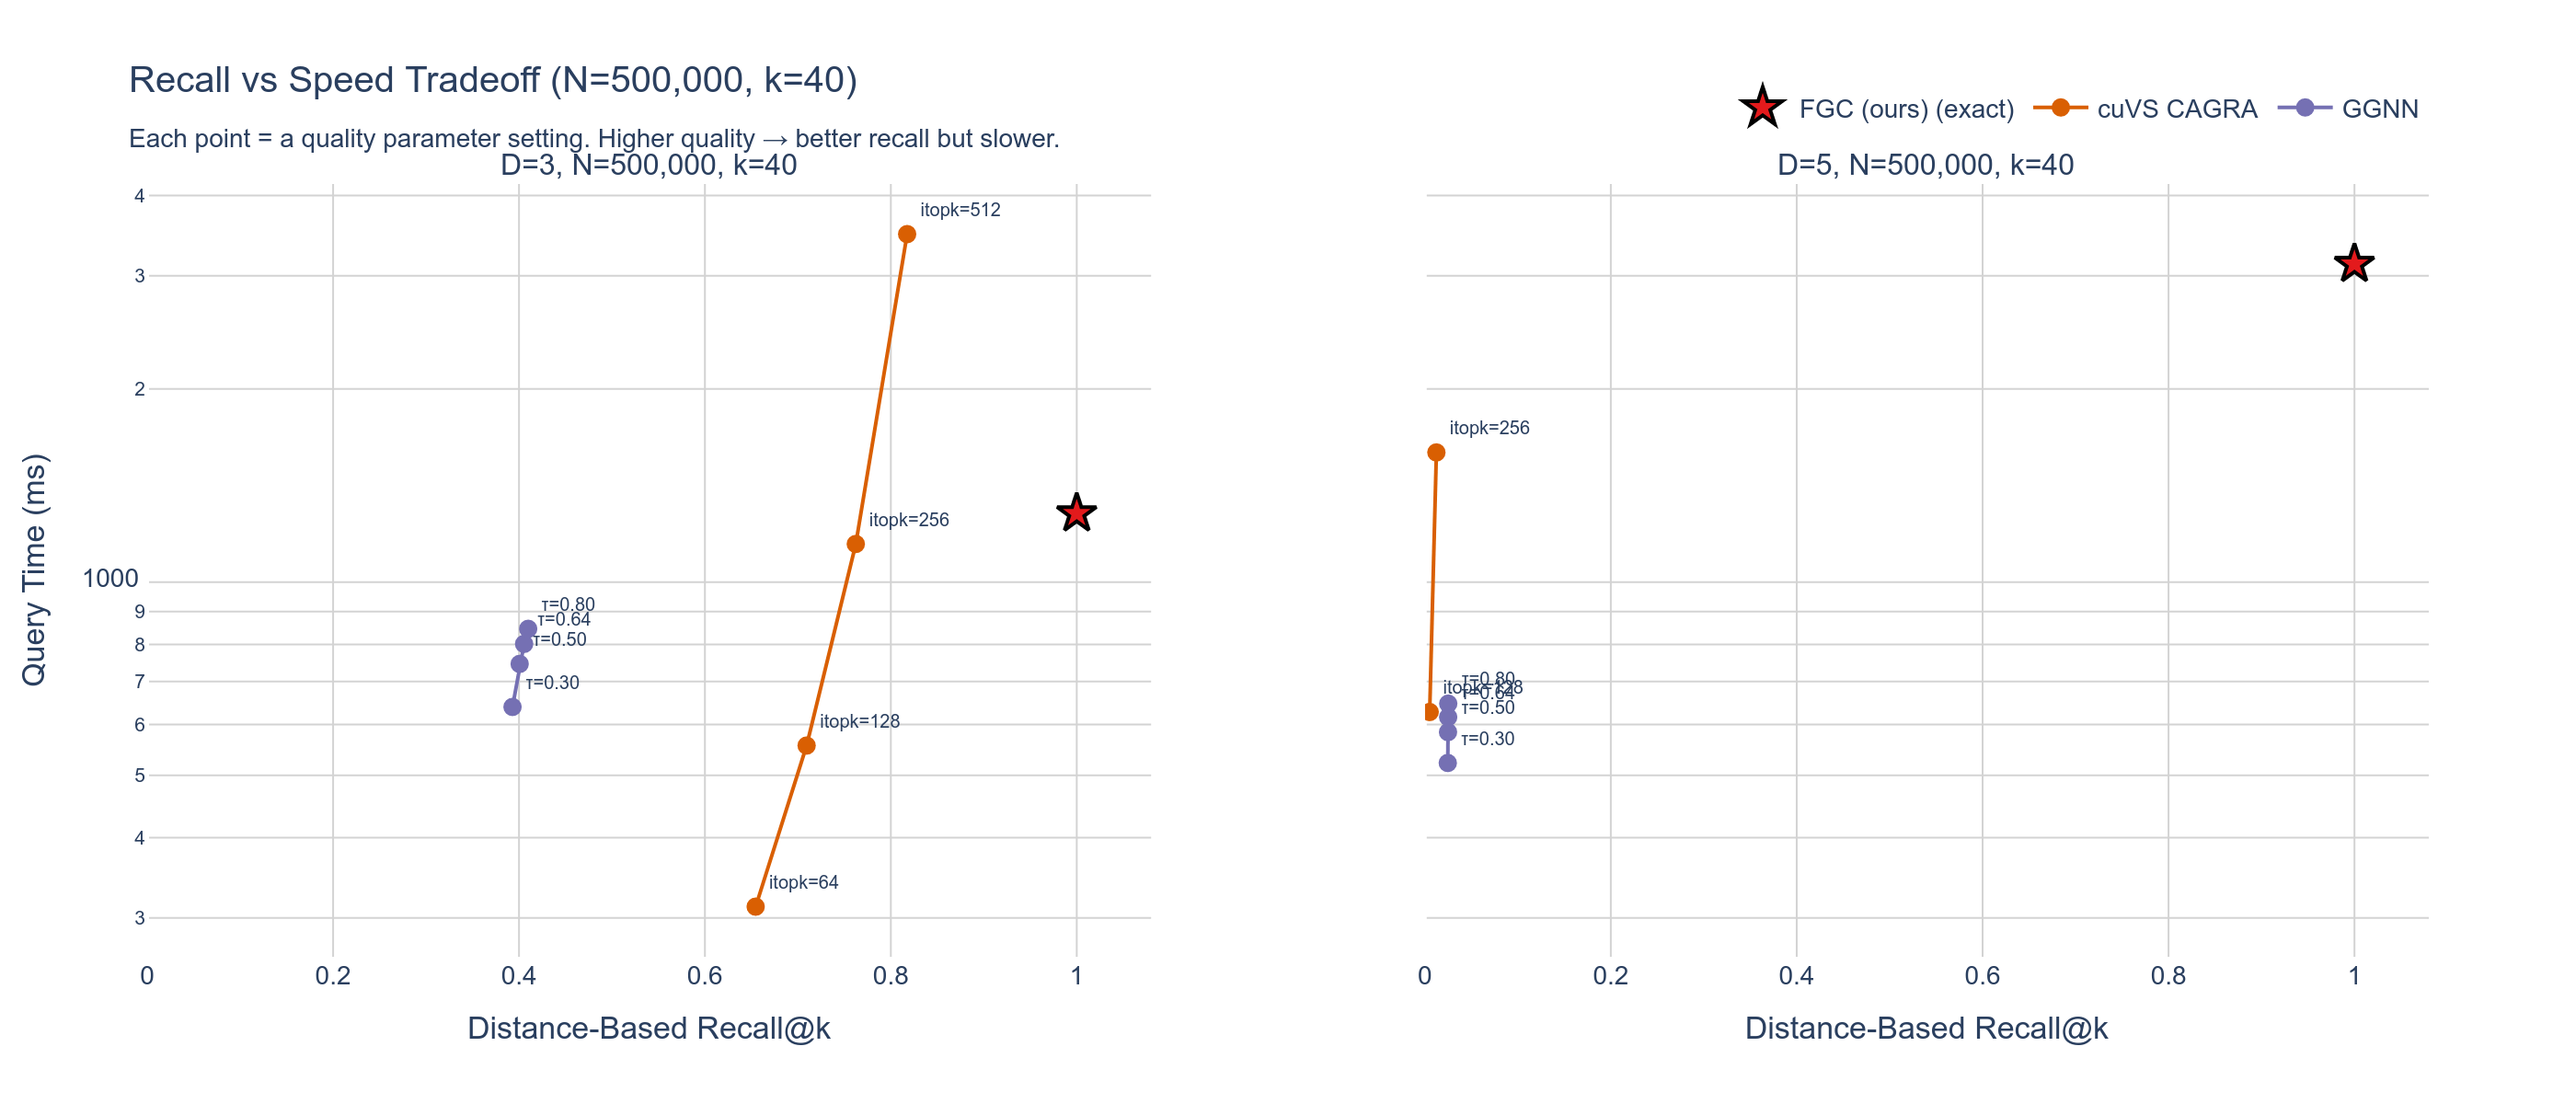
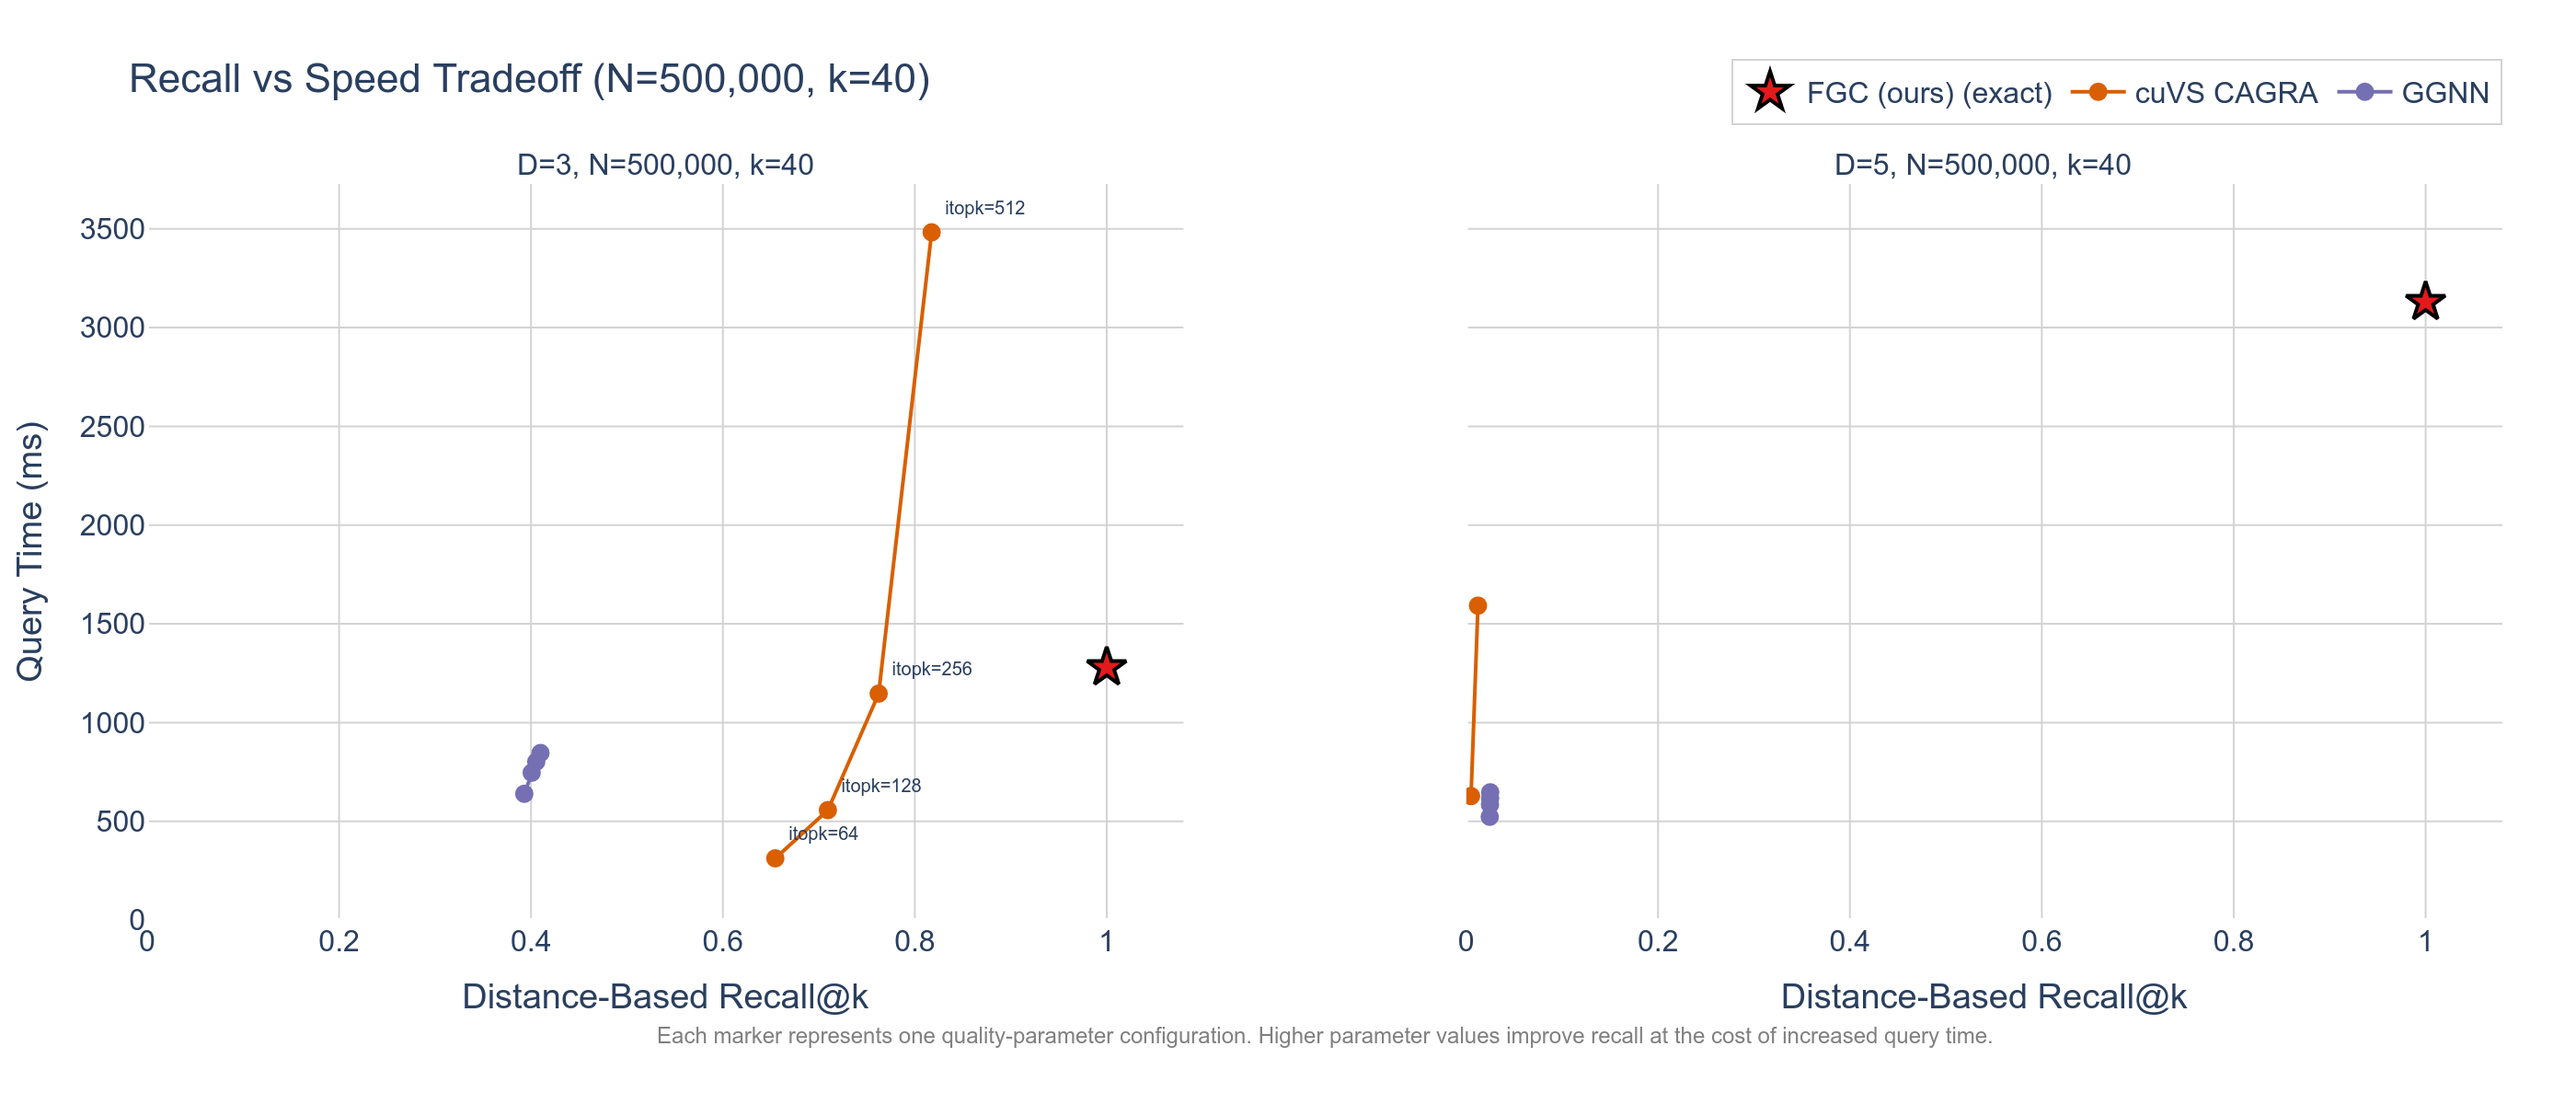
polish all plots: fix OOM marker colors, linear Y axis on Pareto, professional titles
- recall_vs_dimension: OOM markers now use per-algorithm color (cuVS orange) instead of red; label shown once at first OOM dim to avoid overlap; subtitle notes cross markers = OOM
- recall_speed_pareto: switch Y axis from log to linear for equal gridline spacing; move subtitle out of title into bottom annotation with formal language; suppress overlapping parameter labels when recall range < 0.05
- recall_controlled_speed: retitle from misleading "Speed at >=99% Recall" to "Query Speed Comparison"; subtitle clarifies none reach 99% recall
- plot_side_by_side_with_zoom: fix "Detail View (y <= X ms)" -> "Detail View (speedup <= X×)" (Y axis is speedup factor, not ms)
- all reviewer plots: bump base font 14->16, add explicit margins, consistent legend styling with bgcolor/border

diff --git a/process_gpu_csvs.py b/process_gpu_csvs.py
@@ -315,13 +315,13 @@ def plot_side_by_side_with_zoom(data: pd.DataFrame, analysis_type: str, **kwargs
         max_dimensions = kwargs.get("max_dimensions", 15)
 
         subtitle_left = f"Full Scale (d ≤ {max_dimensions})"
-        subtitle_right = f"Detail View (y ≤ {y_axis_cap} ms)"
+        subtitle_right = f"Detail View (speedup ≤ {y_axis_cap}×)"
         main_title = f"GPU-only FGC Dimensional Scaling Analysis ({size//1_000_000}M Vectors, K={k})"
     else:
         dimension = kwargs.get("dimension", 3)
         k = kwargs.get("k", 40)
         subtitle_left = "Full Scale"
-        subtitle_right = f"Detail View (y ≤ {y_axis_cap} ms)"
+        subtitle_right = f"Detail View (speedup ≤ {y_axis_cap}×)"
         main_title = f"GPU-only FGC Speedup Analysis: D={dimension}, K={k}, Varying Sizes"
 
     fig = make_subplots(
@@ -640,14 +640,16 @@ def plot_recall_exactness(
     fig.add_hline(y=1.0, line_dash="dash", line_color="gray",
                   annotation_text="Exact", annotation_position="top right")
     fig.update_layout(
-        title=f"FGC Achieves Exact Recall vs Approximate Methods (D={dim}, N={points:,}, k={k})",
+        title=f"FGC Achieves Exact Recall vs Approximate Methods<br>"
+              f"<sub>D={dim}, N={points:,}, k={k}. Approximate methods shown at their best quality setting.</sub>",
         xaxis_title="Algorithm",
         yaxis_title=f"Distance-Based Recall@{k}",
-        yaxis=dict(range=[0, 1.12], gridcolor="lightgray", gridwidth=1),
+        yaxis=dict(range=[0, 1.15], gridcolor="lightgray", gridwidth=1),
         showlegend=False,
-        font=dict(family="Arial", size=14),
+        font=dict(family="Arial", size=16),
         plot_bgcolor="white",
         paper_bgcolor="white",
+        margin=dict(t=100, b=70, l=80, r=40),
     )
     return fig
 
@@ -719,15 +721,18 @@ def plot_recall_controlled_speed(
             ), row=1, col=col_idx)
 
     fig.update_layout(
-        title=f"Speed at ≥{int(target_recall*100)}% Recall (N={points:,}, k={k})<br>"
-              f"<sub>Approximate methods use their best config meeting the recall target (or best available)</sub>",
+        title=f"Query Speed Comparison (N={points:,}, k={k})<br>"
+              f"<sub>Approximate methods shown at their highest achievable recall (annotated). "
+              f"None reach {int(target_recall*100)}% recall at these settings.</sub>",
         yaxis_title="Time (ms)",
         yaxis=dict(gridcolor="lightgray"),
         barmode="group",
-        font=dict(family="Arial", size=14),
+        font=dict(family="Arial", size=16),
         plot_bgcolor="white",
         paper_bgcolor="white",
-        legend=dict(orientation="h", yanchor="bottom", y=1.06, xanchor="right", x=1),
+        legend=dict(orientation="h", yanchor="bottom", y=1.08, xanchor="right", x=1,
+                    bgcolor="rgba(255,255,255,0.85)", bordercolor="lightgray", borderwidth=1),
+        margin=dict(t=110, b=70, l=80, r=40),
     )
     return fig
 
@@ -819,15 +824,17 @@ def plot_memory_footprint(
 
     fig.update_layout(
         title=f"Peak GPU Memory Usage (D={dim}, k={k})<br>"
-              f"<sub>Measured via pynvml device-level memory delta (cross-allocator)</sub>",
+              f"<sub>Measured via device-level memory delta (cross-allocator, includes all GPU frameworks)</sub>",
         xaxis_title="Dataset Size",
         yaxis_title="Peak GPU Memory (MB)",
         yaxis=dict(gridcolor="lightgray"),
         barmode="group",
-        font=dict(family="Arial", size=14),
+        font=dict(family="Arial", size=16),
         plot_bgcolor="white",
         paper_bgcolor="white",
-        legend=dict(orientation="h", yanchor="bottom", y=1.06, xanchor="right", x=1),
+        legend=dict(orientation="h", yanchor="bottom", y=1.08, xanchor="right", x=1,
+                    bgcolor="rgba(255,255,255,0.85)", bordercolor="lightgray", borderwidth=1),
+        margin=dict(t=110, b=70, l=80, r=40),
     )
     return fig
 
@@ -886,9 +893,15 @@ def plot_recall_speed_pareto(
                     mean_recall=("recall", "mean"),
                     mean_time=("time_ms", "mean"),
                 ).reset_index().sort_values("mean_recall")
-                labels = [f"{param_label}={p:.0f}" if backend == "cuvs"
-                          else f"{param_label}={p:.2f}"
-                          for p in grouped[param_col]]
+                raw_labels = [f"{param_label}={p:.0f}" if backend == "cuvs"
+                              else f"{param_label}={p:.2f}"
+                              for p in grouped[param_col]]
+                # Suppress labels when recall range is too compressed to avoid overlap
+                recall_range = grouped["mean_recall"].max() - grouped["mean_recall"].min()
+                if recall_range < 0.05:
+                    labels = [""] * len(raw_labels)
+                else:
+                    labels = raw_labels
                 fig.add_trace(go.Scatter(
                     x=grouped["mean_recall"],
                     y=grouped["mean_time"],
@@ -905,16 +918,26 @@ def plot_recall_speed_pareto(
 
     fig.update_xaxes(title_text="Distance-Based Recall@k", range=[0, 1.08],
                      gridcolor="lightgray", gridwidth=1)
-    fig.update_yaxes(title_text="Query Time (ms)", type="log",
+    fig.update_yaxes(title_text="Query Time (ms)", rangemode="tozero",
                      gridcolor="lightgray", gridwidth=1, row=1, col=1)
-    fig.update_yaxes(type="log", gridcolor="lightgray", gridwidth=1, row=1, col=2)
+    fig.update_yaxes(rangemode="tozero", gridcolor="lightgray", gridwidth=1, row=1, col=2)
     fig.update_layout(
-        title=f"Recall vs Speed Tradeoff (N={points:,}, k={k})<br>"
-              f"<sub>Each point = a quality parameter setting. Higher quality → better recall but slower.</sub>",
-        font=dict(family="Arial", size=14),
+        title=f"Recall vs Speed Tradeoff (N={points:,}, k={k})",
+        font=dict(family="Arial", size=16),
         plot_bgcolor="white",
         paper_bgcolor="white",
-        legend=dict(orientation="h", yanchor="bottom", y=1.06, xanchor="right", x=1),
+        legend=dict(orientation="h", yanchor="bottom", y=1.08, xanchor="right", x=1,
+                    bgcolor="rgba(255,255,255,0.85)", bordercolor="lightgray", borderwidth=1),
+        margin=dict(t=100, b=100, l=80, r=40),
+    )
+    fig.add_annotation(
+        text="Each marker represents one quality-parameter configuration. "
+             "Higher parameter values improve recall at the cost of increased query time.",
+        xref="paper", yref="paper",
+        x=0.5, y=-0.18,
+        showarrow=False,
+        font=dict(size=12, color="gray", family="Arial"),
+        align="center",
     )
     return fig
 
@@ -964,39 +987,45 @@ def plot_recall_vs_dimension(
             name=meta["name"],
         ))
 
-        # Check for OOM/error dims — show as red '×'
+        # Check for OOM/error dims — show as per-algorithm '×'
         ok_dims = set(grouped["dim"].astype(int).tolist())
-        # Load ALL data including errors to find which dims failed
         dist_path = os.path.join(RECALL_DATA_DIR, f"recall_dist_{backend}.csv")
         if os.path.exists(dist_path):
             df_all = pd.read_csv(dist_path)
             err_sub = df_all[(df_all["points"] == points) & (df_all["k"] == k) & (df_all["status"] == "error")]
             err_dims = set(err_sub["dim"].astype(int).tolist()) - ok_dims
             if err_dims:
+                sorted_err = sorted(err_dims)
+                # Only label the first marker to avoid overlap; color identifies the algorithm
+                labels = ["OOM"] + [""] * (len(sorted_err) - 1)
                 fig.add_trace(go.Scatter(
-                    x=sorted(err_dims),
-                    y=[0.02] * len(err_dims),
+                    x=sorted_err,
+                    y=[0.02] * len(sorted_err),
                     mode="markers+text",
-                    marker=dict(color="red", size=12, symbol="x"),
-                    text=["OOM"] * len(err_dims),
+                    marker=dict(color=meta["color"], size=13, symbol="x",
+                                line=dict(width=2, color=meta["color"])),
+                    text=labels,
                     textposition="top center",
-                    textfont=dict(size=9, color="red"),
+                    textfont=dict(size=11, color=meta["color"]),
                     name=f"{meta['name']} (OOM)",
-                    showlegend=False,
+                    showlegend=True,
                 ))
 
     fig.add_hline(y=1.0, line_dash="dash", line_color="gray", opacity=0.5)
     fig.update_layout(
         title=f"Recall vs Dimension at Best Quality Setting (N={points:,}, k={k})<br>"
-              f"<sub>FGC is exact across all dimensions; approximate methods degrade at higher d</sub>",
+              f"<sub>FGC is exact across all dimensions; approximate methods degrade at higher d. "
+              f"Cross markers indicate out-of-memory failure.</sub>",
         xaxis_title="Dimensions",
         xaxis=dict(dtick=1, range=[1.5, 10.5], gridcolor="lightgray"),
         yaxis_title="Distance-Based Recall@k",
-        yaxis=dict(range=[-0.02, 1.08], gridcolor="lightgray"),
-        font=dict(family="Arial", size=14),
+        yaxis=dict(range=[-0.05, 1.12], gridcolor="lightgray"),
+        font=dict(family="Arial", size=16),
         plot_bgcolor="white",
         paper_bgcolor="white",
-        legend=dict(orientation="h", yanchor="bottom", y=1.06, xanchor="right", x=1),
+        legend=dict(orientation="h", yanchor="bottom", y=1.08, xanchor="right", x=1,
+                    bgcolor="rgba(255,255,255,0.85)", bordercolor="lightgray", borderwidth=1),
+        margin=dict(t=110, b=70, l=80, r=40),
     )
     return fig
 
